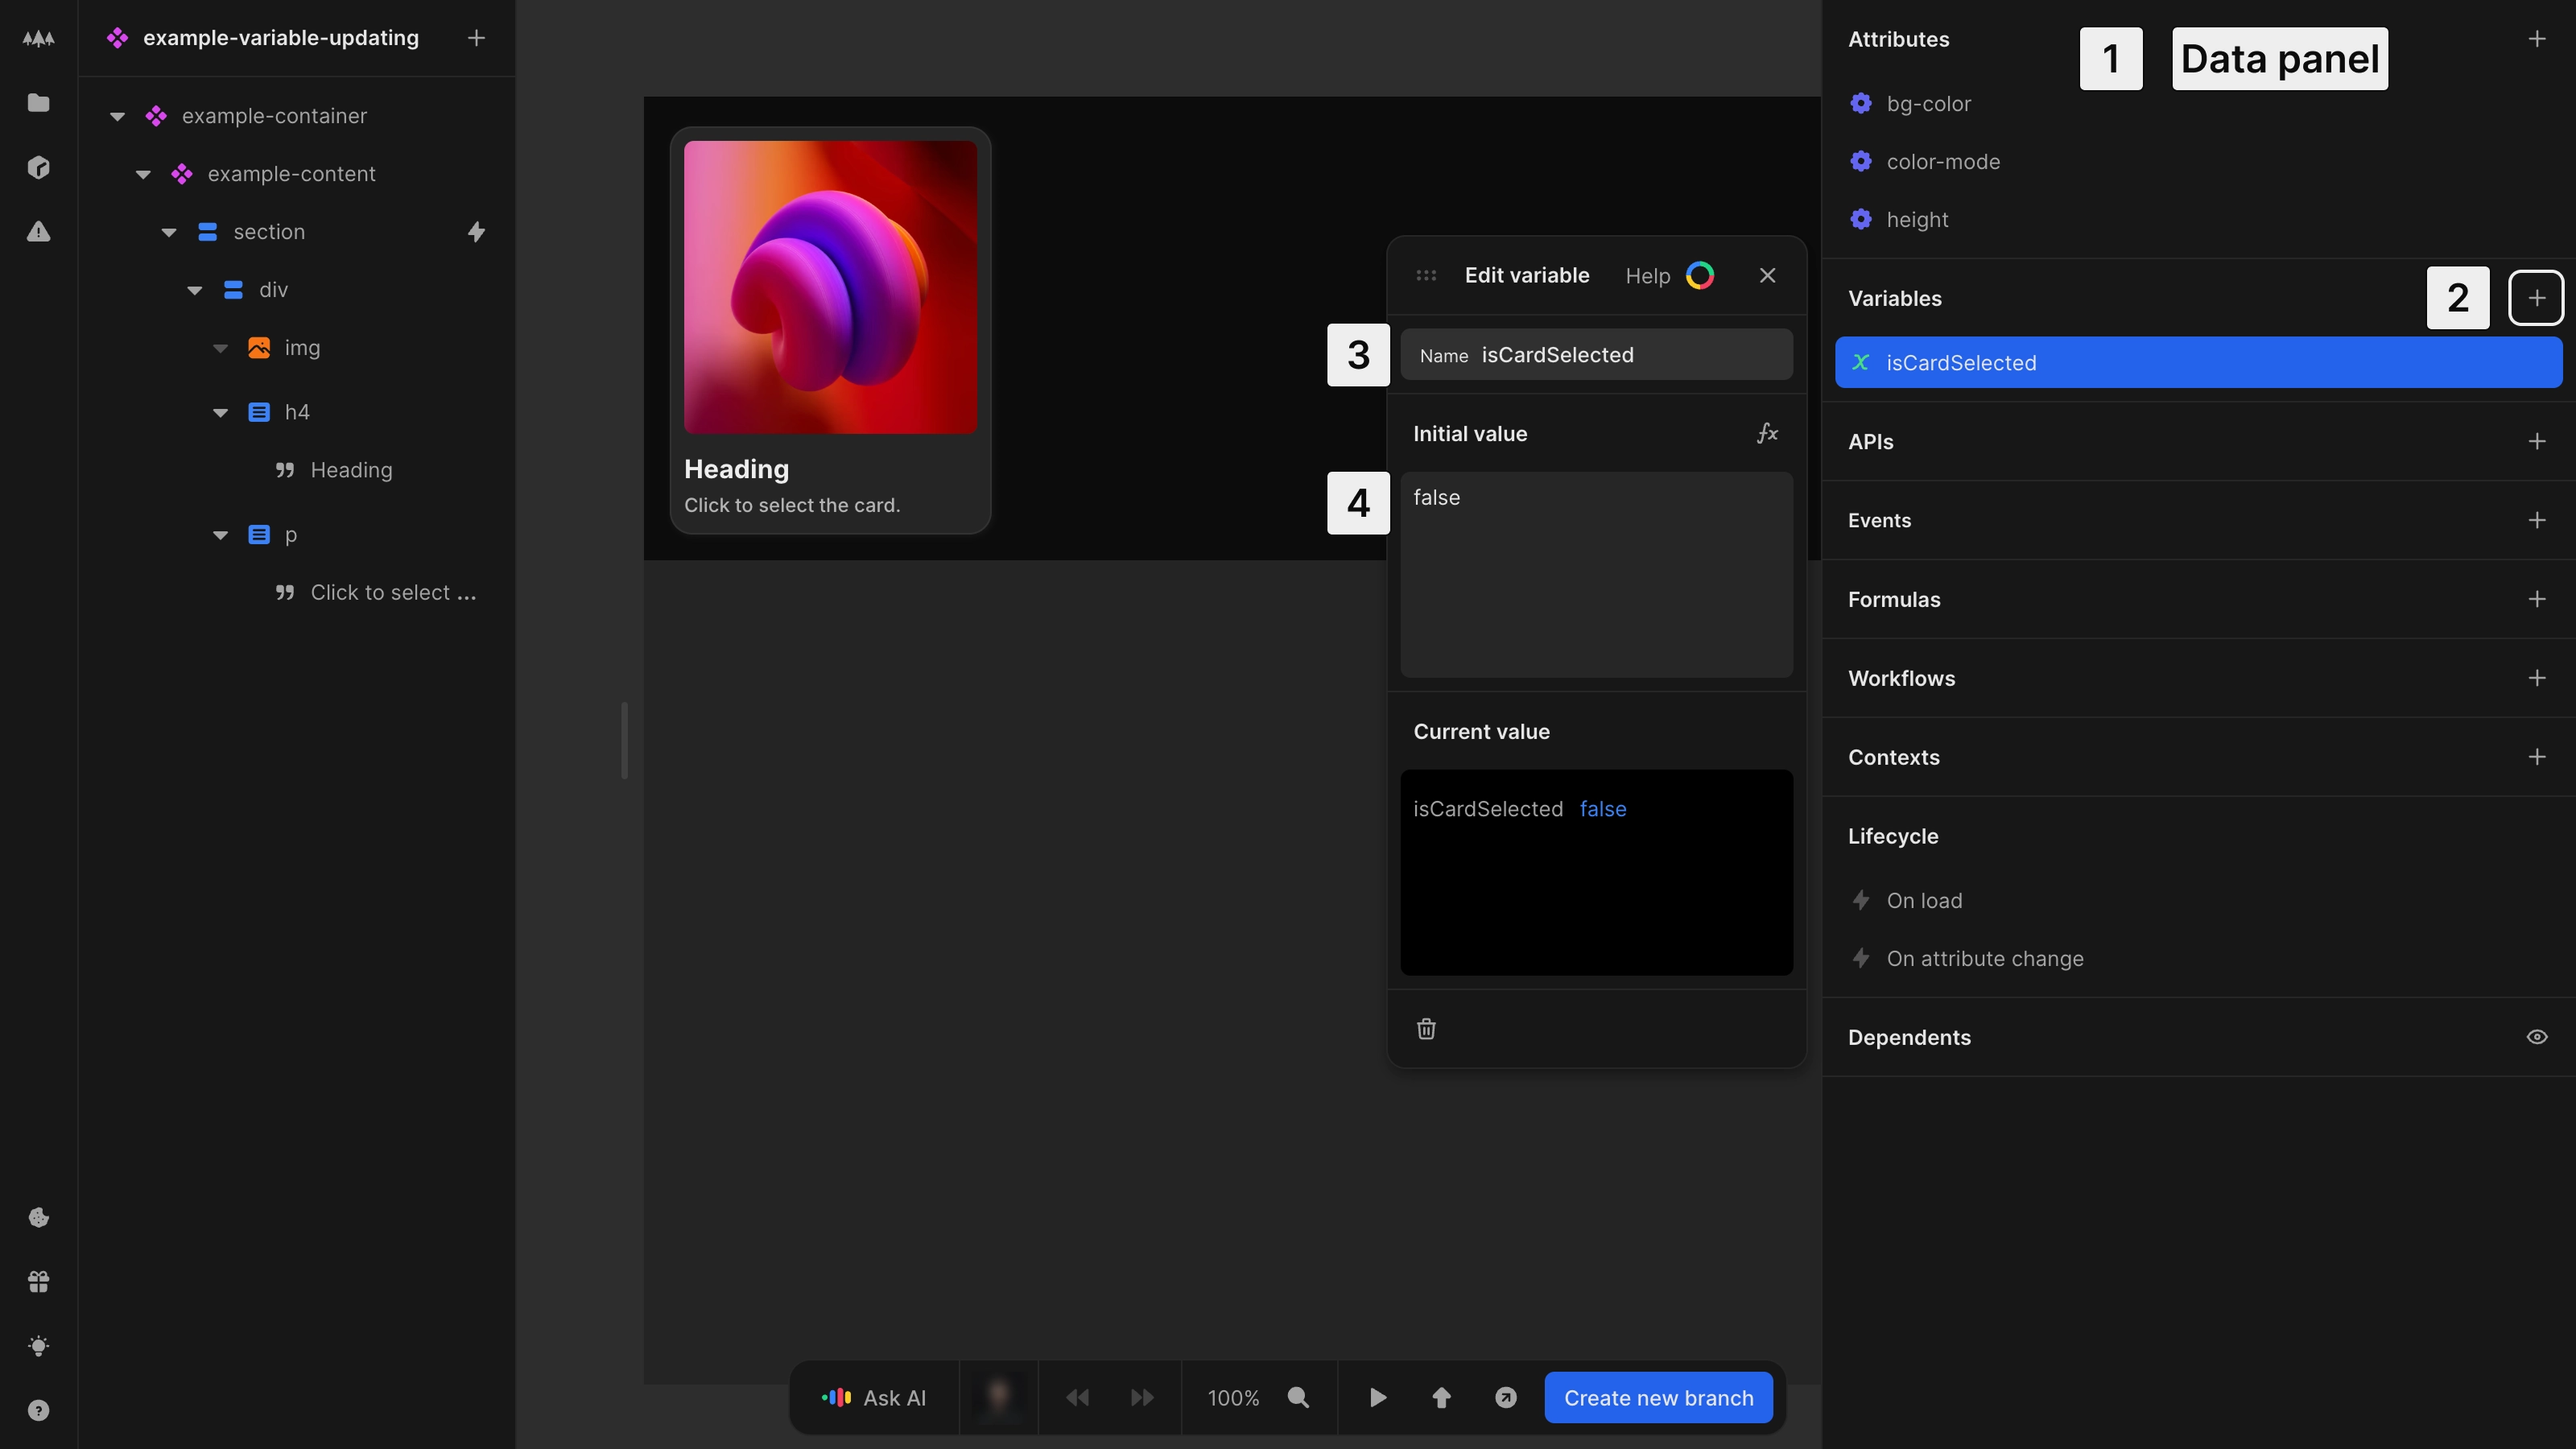
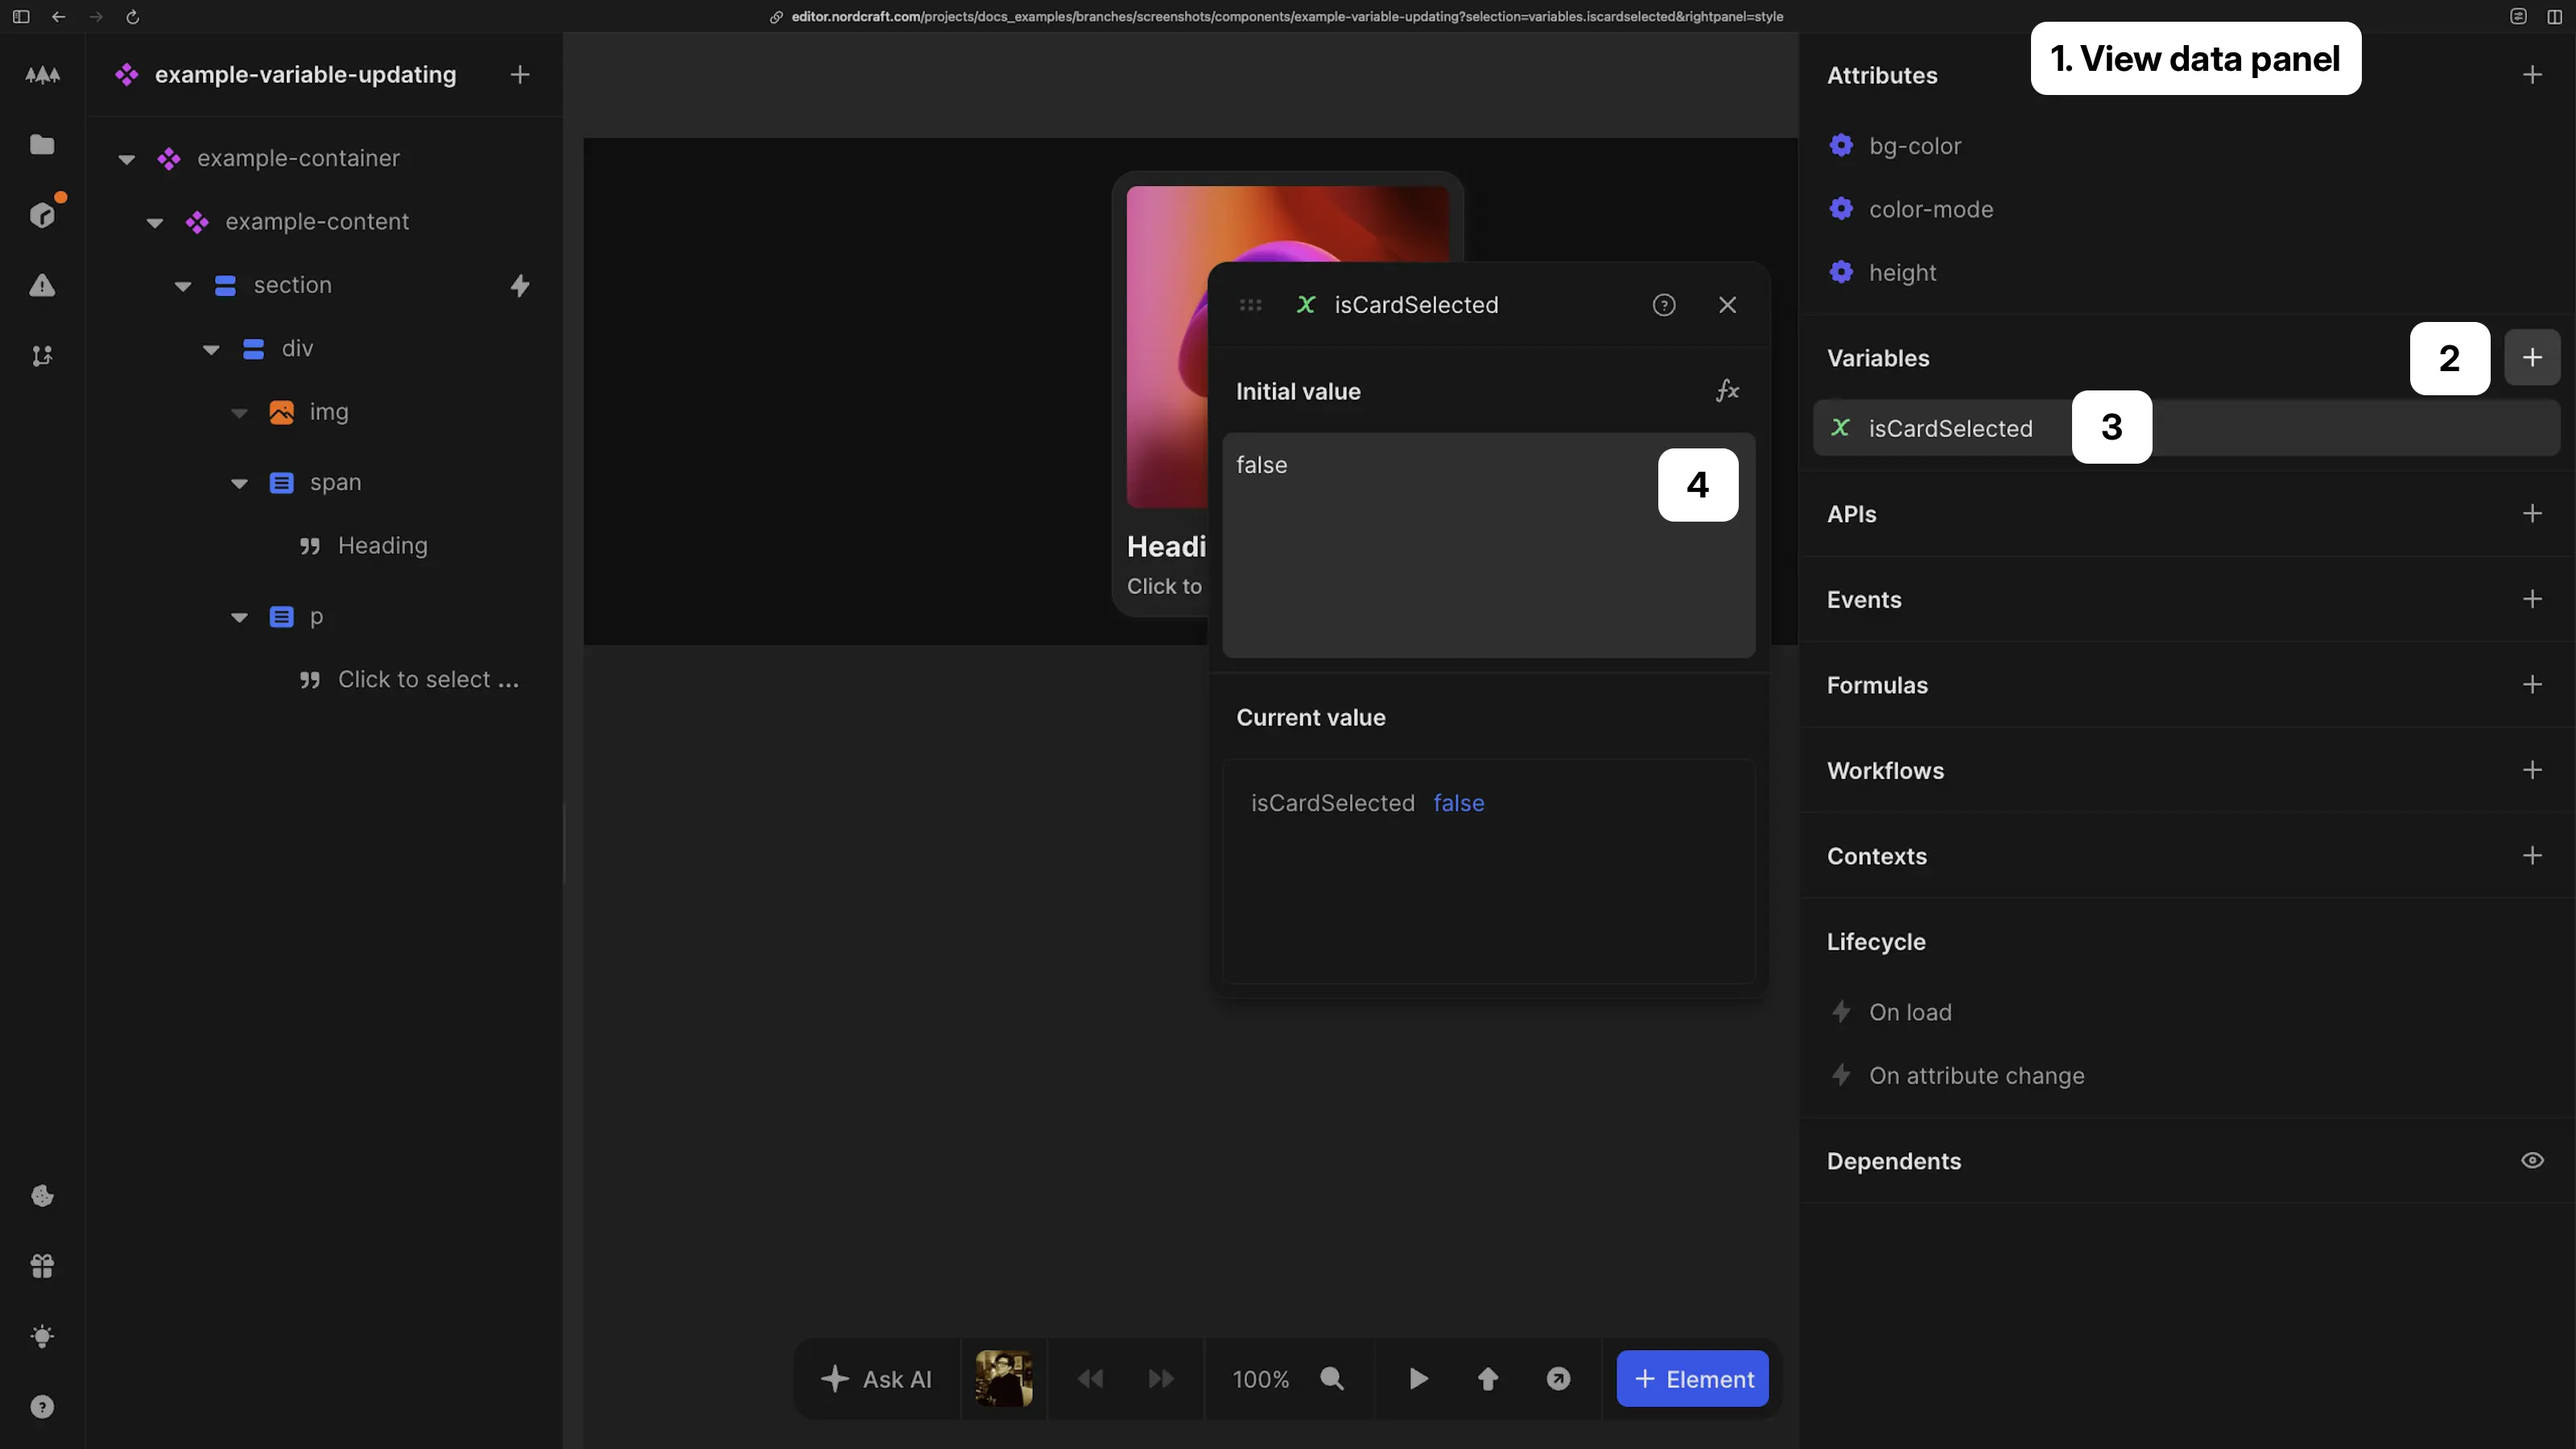
Update screenshots for create variable (#402)
* Update screenshots for create variable

* Update docs/variables/working-with-variables/index.md

---------

diff --git a/docs/variables/working-with-variables/index.md b/docs/variables/working-with-variables/index.md
@@ -9,14 +9,14 @@ Variables enable you to manage state throughout your application, allowing you t
 
 ## Creating variables
 
-![A component is being edited. The data panel is visible on the right. A variable named isCardSelected is selected, which has opened the edit variable dialog, where you can edit the name and initial value of the variable. You can also view the current value of the variable in the app.|16/9](create-a-variable.webp 'Create a variable'){https://editor.nordcraft.com/projects/docs_examples/branches/main/components/example-variable-updating?canvas-width=800&rightpanel=style&selection=variables.isCardSelected&canvas-height=800}
+![A component is being edited. The data panel is visible on the right. A variable named isCardSelected is selected, which has opened the edit variable dialog, where you can edit the initial value of the variable. You can also view the current value of the variable in the app at the bottom of the dialog.|16/9](create-a-variable.webp 'Create a variable'){https://editor.nordcraft.com/projects/docs_examples/branches/main/components/example-variable-updating?canvas-width=800&rightpanel=style&selection=variables.isCardSelected&canvas-height=800}
 
 To create a variable:
 
 1. Open the [data panel](/the-editor/data-panel) with no element selected
 2. In the **Variables** section, click the [kbd]+[kbd] button
-3. Enter a name for your variable
-4. Set an [initial value](#initial-value) (can be a static value or formula)
+3. Enter a name for your variable in the right panel
+4. Set an [initial value](#initial-value) in the dialog (can be a static value or formula)
 
 ### Initial value
 
